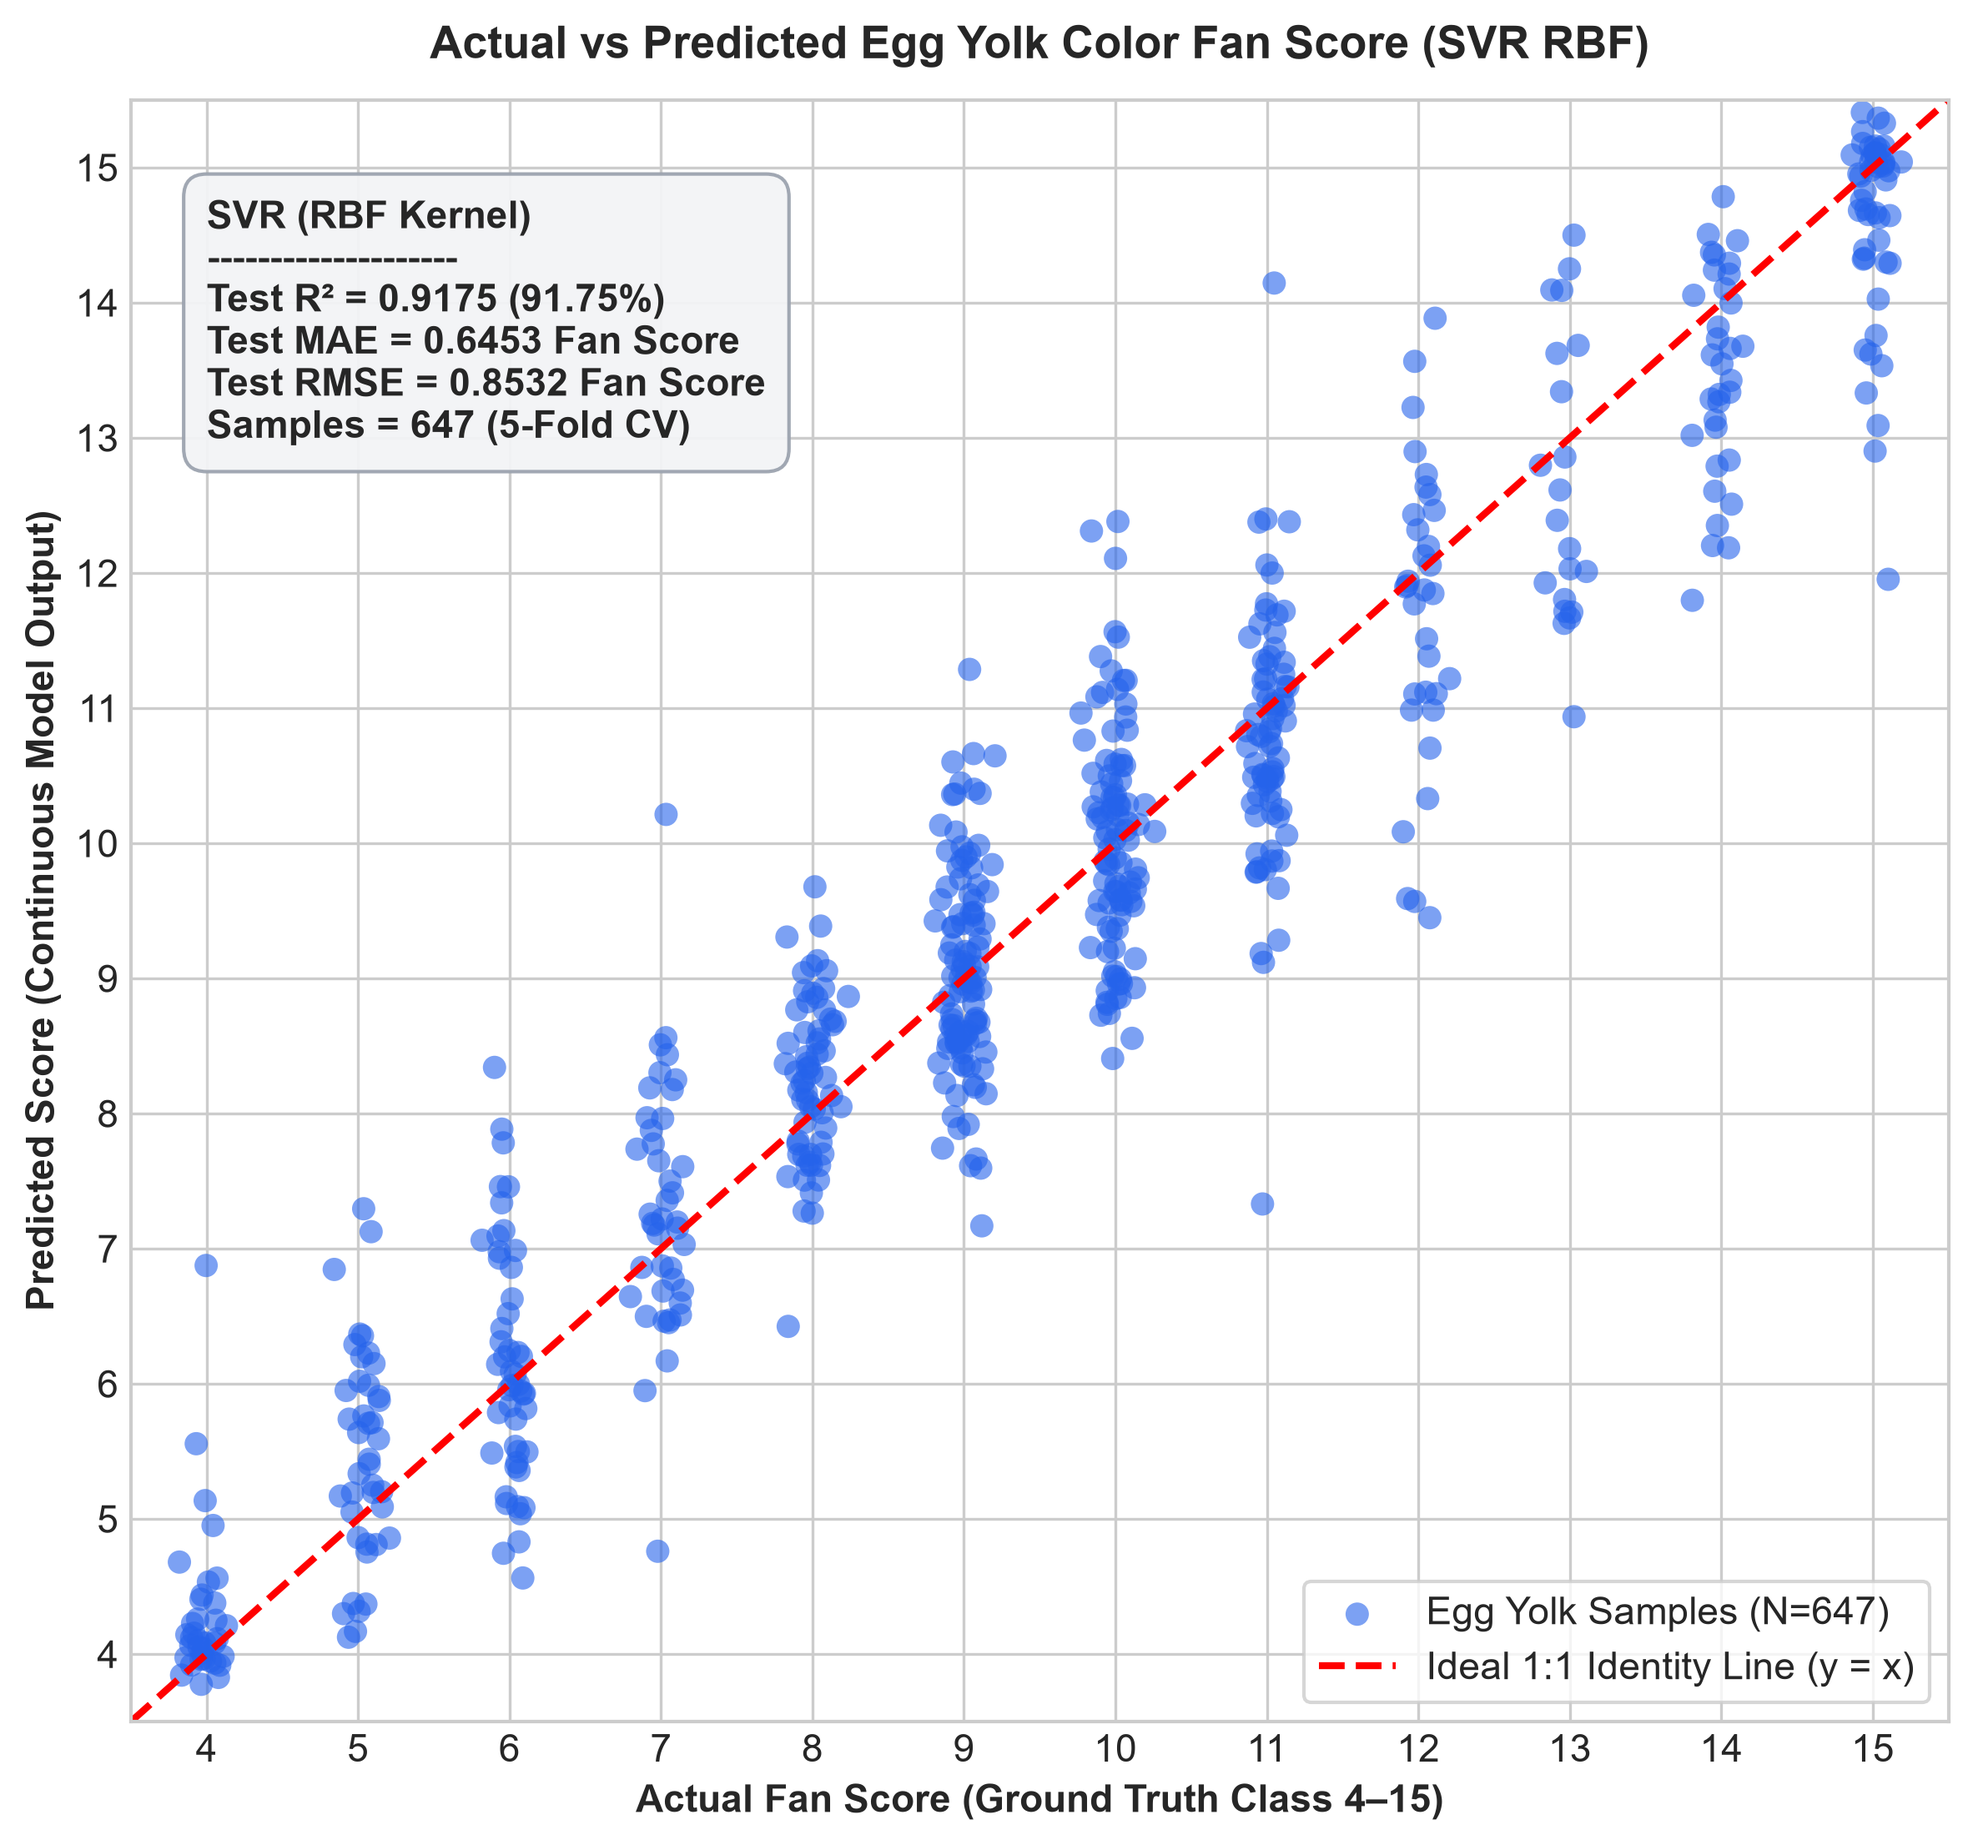
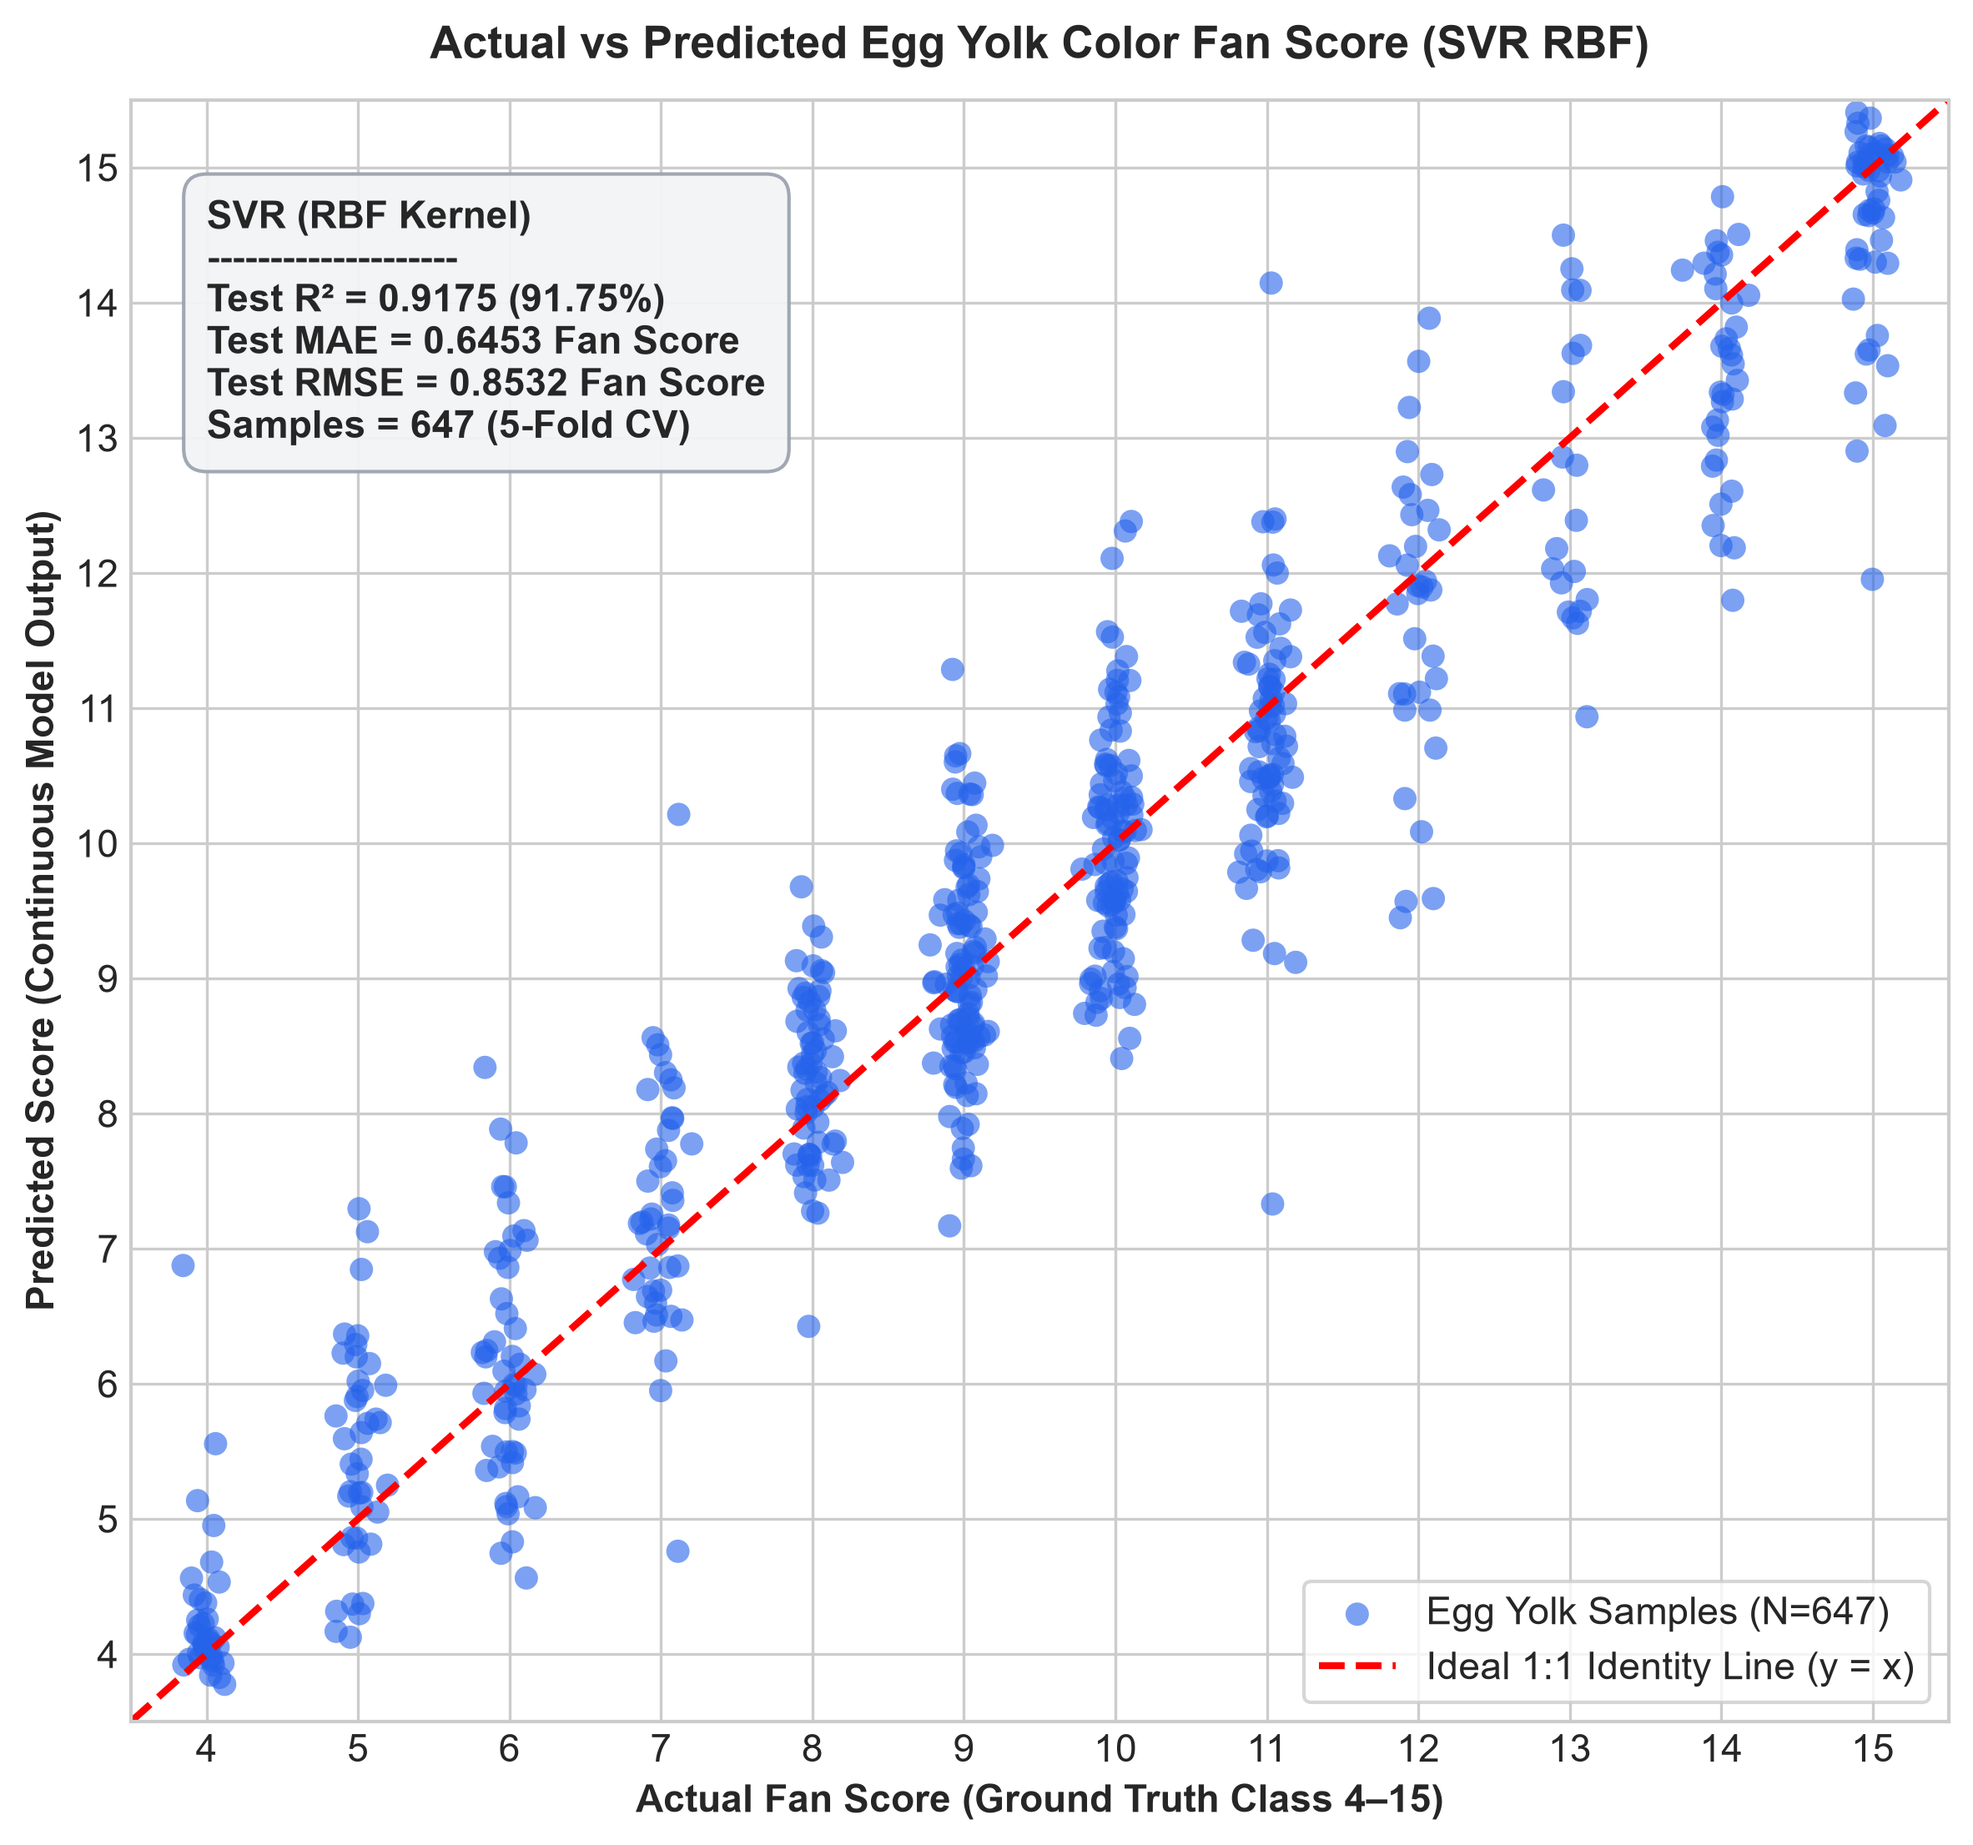
Update: Publish high-resolution SVR evaluation plots and updated scripts

diff --git a/egg_yolk_project/model_dev/plot_updated_svr_tube.py b/egg_yolk_project/model_dev/plot_updated_svr_tube.py
@@ -1,0 +1,83 @@
+"""
+Plot Updated Real SVR Epsilon Tube Visualization with Clean Masked Features (N=567 Support Vectors)
+"""
+
+import os
+import shutil
+import numpy as np
+import pandas as pd
+import matplotlib.pyplot as plt
+from sklearn.svm import SVR
+from sklearn.preprocessing import StandardScaler
+from sklearn.pipeline import Pipeline
+
+# Styling
+plt.style.use('seaborn-v0_8-whitegrid' if 'seaborn-v0_8-whitegrid' in plt.style.available else 'default')
+plt.rcParams['font.family'] = 'sans-serif'
+plt.rcParams['font.size'] = 11
+
+# Paths
+base_dir = os.path.dirname(__file__)
+data_csv = os.path.join(base_dir, 'data', 'features.csv')
+plots_dir = os.path.join(base_dir, 'plots')
+brain_dir = r'C:\Users\Admin\.gemini\antigravity\brain\baddf511-103e-4c9f-926d-8161adce50ce'
+
+df = pd.read_csv(data_csv)
+
+# 1D SVR on Redness Feature a* to visualize the exact Epsilon Tube
+X_a = df[['a']].values
+y = df['fan_score'].values
+
+scaler = StandardScaler()
+X_scaled = scaler.fit_transform(X_a)
+
+svr = SVR(kernel='rbf', C=10.0, epsilon=0.1)
+svr.fit(X_scaled, y)
+
+# Smooth curve points
+x_plot = np.linspace(X_a.min() - 2, X_a.max() + 2, 500).reshape(-1, 1)
+x_plot_scaled = scaler.transform(x_plot)
+y_pred_curve = svr.predict(x_plot_scaled)
+
+# Support Vectors indices
+sv_indices = svr.support_
+sv_x = X_a[sv_indices].flatten()
+sv_y = y[sv_indices]
+
+# Plotting
+plt.figure(figsize=(12, 7.5))
+
+# Plot all samples
+plt.scatter(df['a'], y, color='#F97316', alpha=0.45, s=35, label=f'Egg Yolk Samples (N={len(df)})')
+
+# Plot Support Vectors
+plt.scatter(sv_x, sv_y, s=75, facecolors='#10B981', edgecolors='#064E3B', linewidths=1.2,
+            zorder=4, label=f'Support Vectors (N={len(sv_indices)})')
+
+# Plot Epsilon Tube (Tolerated Error Band)
+eps = 0.1
+plt.fill_between(x_plot.flatten(), y_pred_curve - eps, y_pred_curve + eps,
+                 color='#FDE68A', alpha=0.7, label=r'Epsilon Tube ($\epsilon = 0.1$ Tolerance Band)', zorder=2)
+plt.plot(x_plot.flatten(), y_pred_curve + eps, '--', color='#D97706', linewidth=1.5, label=r'Upper / Lower Bounds ($\pm\epsilon$)', zorder=3)
+plt.plot(x_plot.flatten(), y_pred_curve - eps, '--', color='#D97706', linewidth=1.5, zorder=3)
+
+# Plot SVR Regression Curve
+plt.plot(x_plot.flatten(), y_pred_curve, color='#1D4ED8', linewidth=3.2,
+         label='SVR Prediction Curve (kernel=rbf, C=10.0)', zorder=5)
+
+plt.title('REAL PROJECT DATASET: SVR (RBF Kernel) Epsilon Tube & Support Vectors\nColor Redness Feature (a*) vs Yolk Color Fan Score',
+          fontsize=13, fontweight='bold', pad=14)
+plt.xlabel('Color Feature: Redness Axis a* (CIELAB Space)', fontsize=11, fontweight='bold')
+plt.ylabel('Yolk Color Fan Score (Classes 4–15)', fontsize=11, fontweight='bold')
+plt.yticks(range(4, 16))
+plt.legend(loc='upper left', frameon=True, fontsize=10)
+plt.tight_layout()
+
+tube_path = os.path.join(plots_dir, 'real_svr_tube_visual.png')
+plt.savefig(tube_path, dpi=300, bbox_inches='tight')
+plt.close()
+
+dest_brain = os.path.join(brain_dir, 'real_svr_tube_visual.png')
+shutil.copy2(tube_path, dest_brain)
+
+print("Generated updated SVR tube visual successfully!")

diff --git a/egg_yolk_project/model_dev/generate_all_plots.py b/egg_yolk_project/model_dev/generate_all_plots.py
@@ -178,8 +178,13 @@ plt.title('Residuals (Prediction Error) Distribution - SVR Model', fontsize=13, 
 plt.xlabel('Residual Error (Predicted - Actual)', fontsize=11, fontweight='bold')
 plt.ylabel('Sample Count (Frequency)', fontsize=11, fontweight='bold')
 
-res_text = f"Mean Error: {np.mean(residuals):.3f}\nStd Dev (σ): {np.std(residuals):.3f}\nWithin ±1.0 Fan Score: {np.mean(np.abs(residuals) <= 1.0)*100:.1f}%"
-plt.text(0.70, 0.75, res_text, transform=plt.gca().transAxes, fontsize=11,
+res_text = (
+    f"Mean Error: {np.mean(residuals):.3f}\n"
+    f"Std Dev (σ): {np.std(residuals):.3f}\n"
+    f"Continuous Error (≤ ±1.0): {np.mean(np.abs(residuals) <= 1.0)*100:.1f}%\n"
+    f"Rounded Level (≤ ±1 Level): {np.mean(np.abs(np.round(all_y_pred_svr) - all_y_true) <= 1)*100:.1f}%"
+)
+plt.text(0.60, 0.72, res_text, transform=plt.gca().transAxes, fontsize=10.5,
          bbox=dict(boxstyle='round,pad=0.5', facecolor='#ECFDF5', edgecolor='#10B981', alpha=0.95))
 
 plt.legend(loc='upper left', frameon=True)
